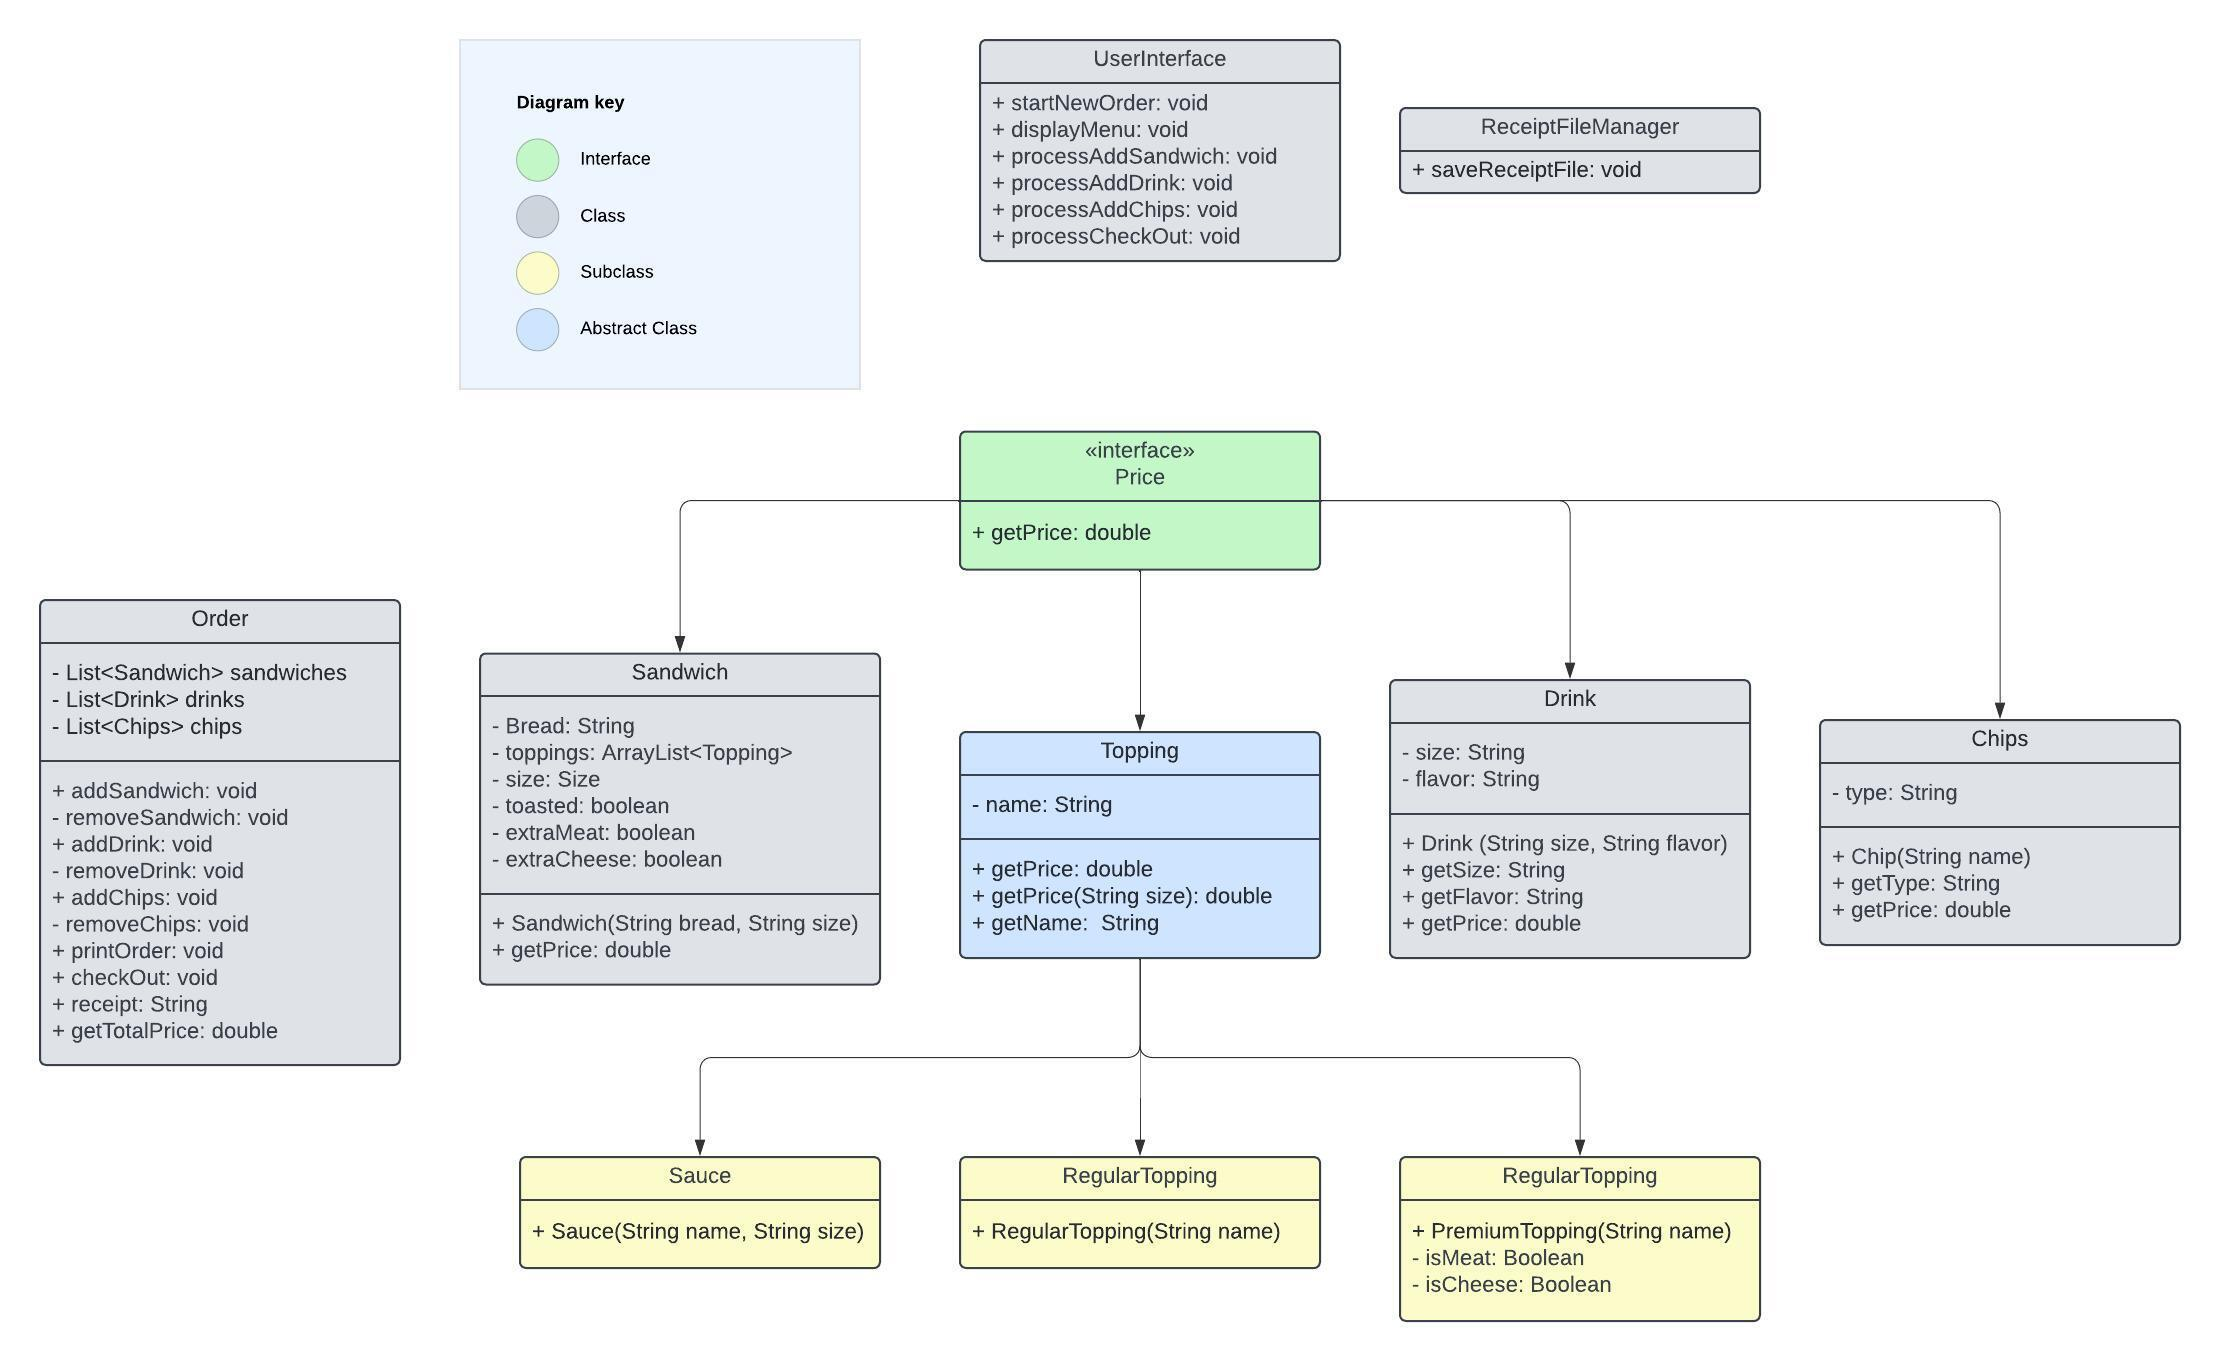
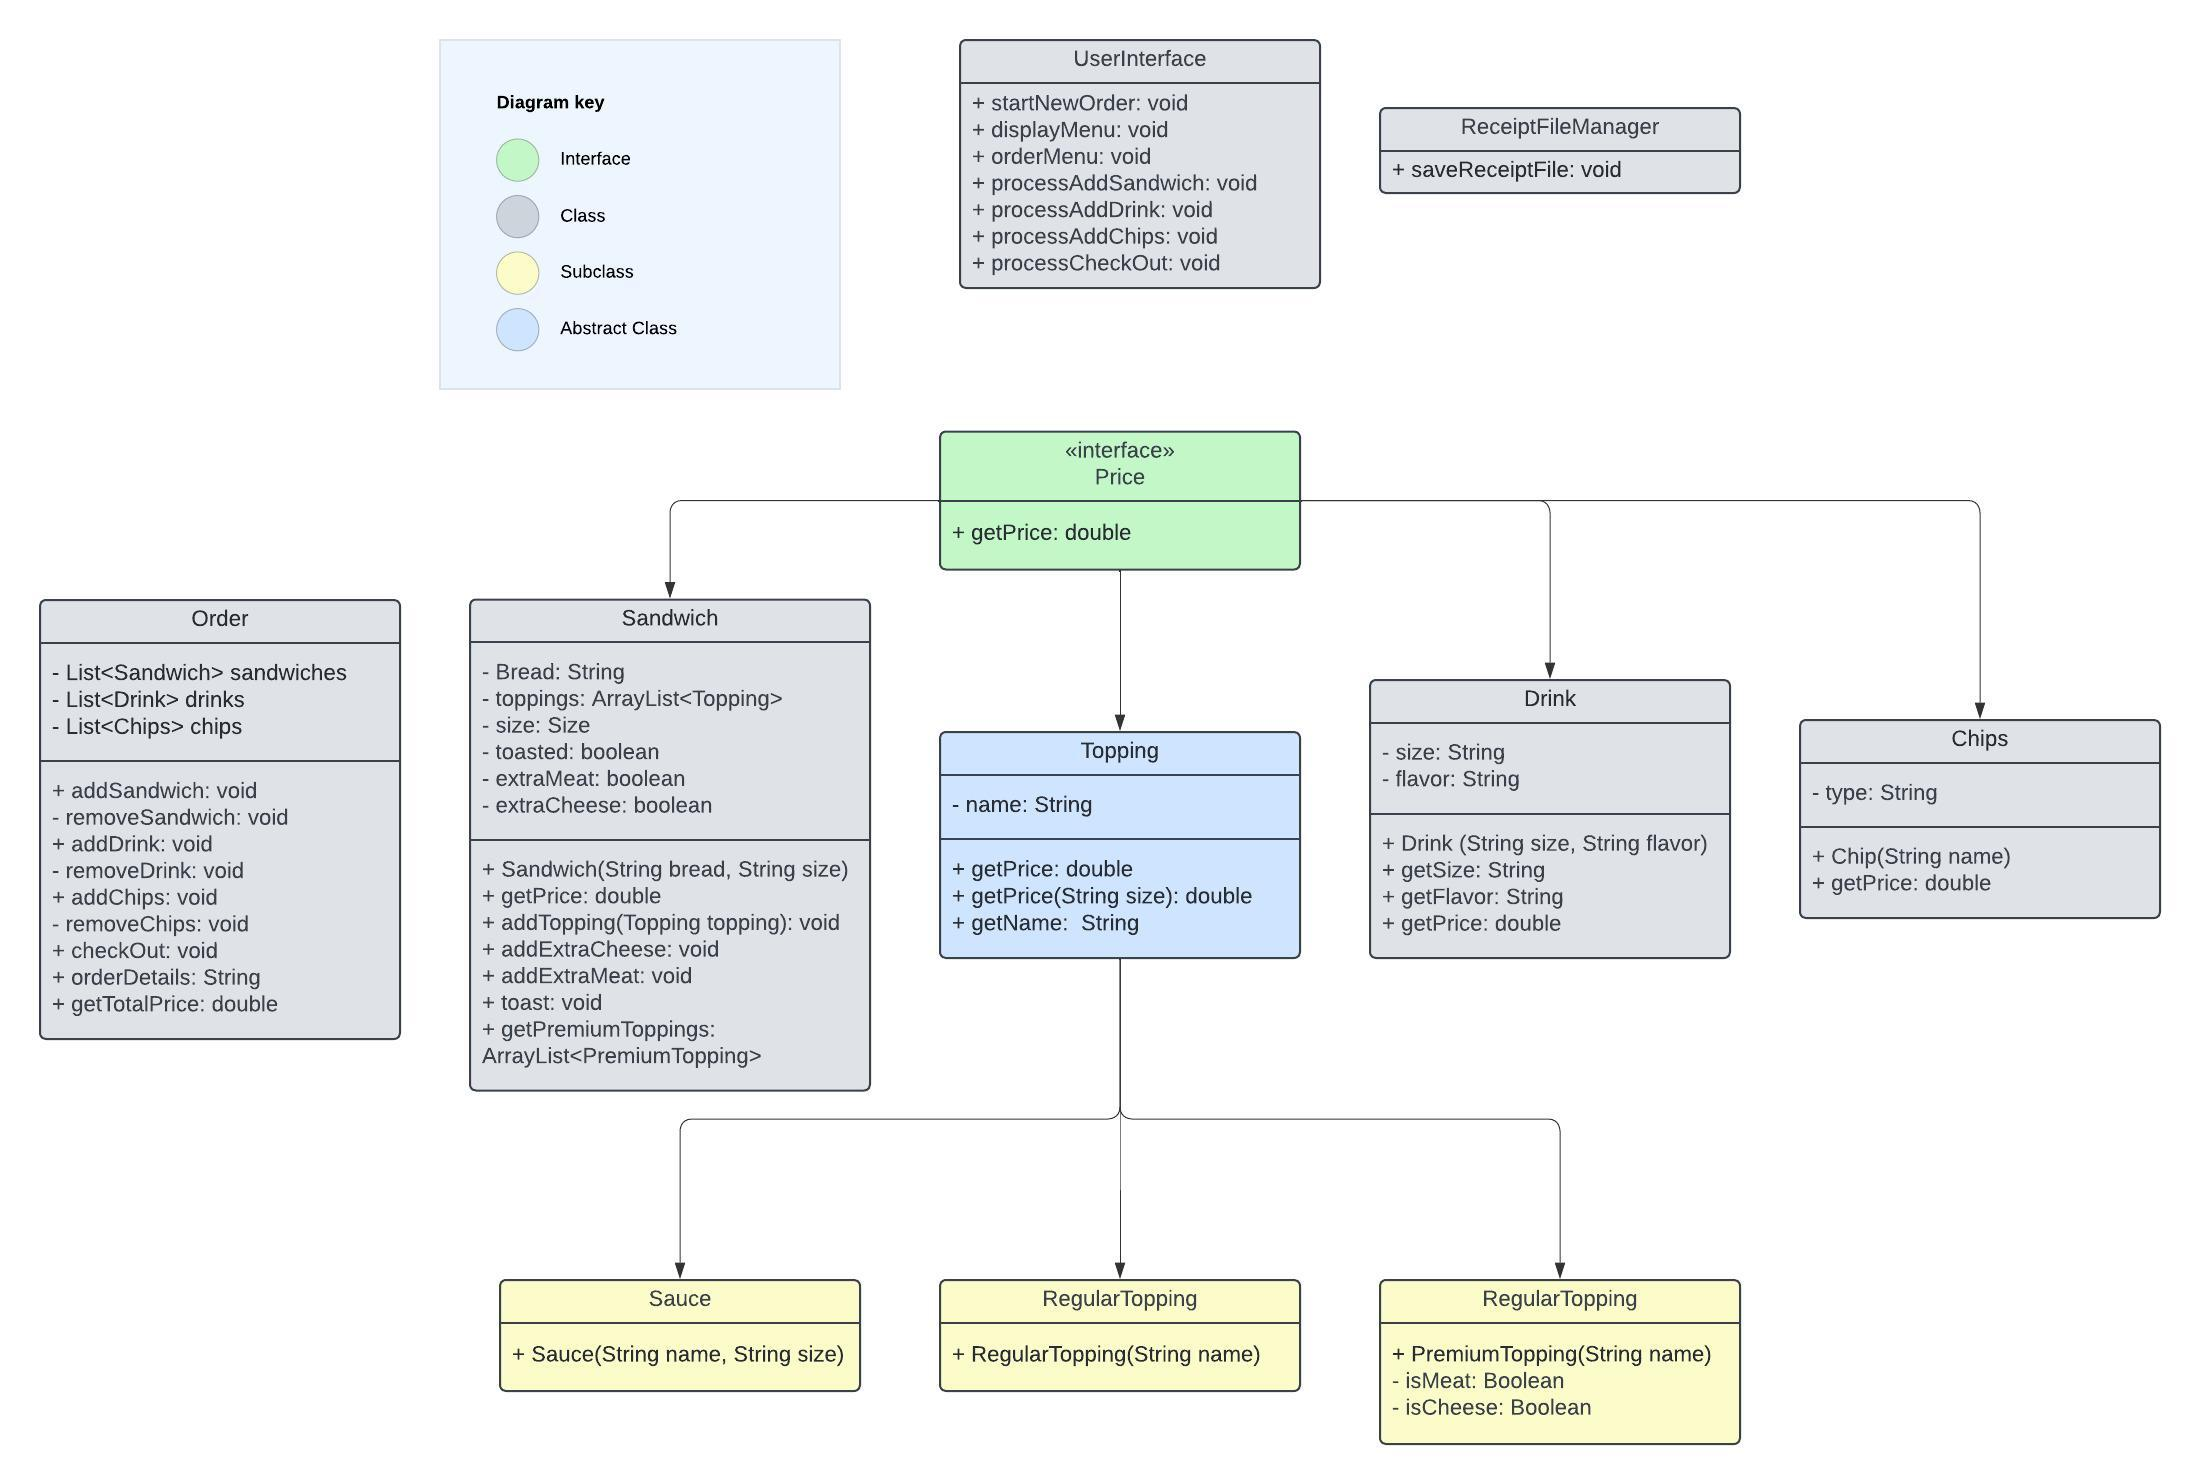
receipt displays extra meat/cheese and if toasted (#32)

diff --git a/src/main/java/com/pluralsight/deli/UserInterface.java b/src/main/java/com/pluralsight/deli/UserInterface.java
@@ -32,7 +32,7 @@ public class UserInterface {
             switch (firstInput) {
                 case "1":
                     startNewOrder();
-                    trueMenu();
+                    orderMenu();
                     break;
                 case "0":
                     acting = false;
@@ -41,7 +41,7 @@ public class UserInterface {
         }
     }
 
-    public void trueMenu() {
+    public void orderMenu() {
         boolean running = true;
         while(running) {
             Scanner scanner = new Scanner(System.in);
@@ -90,8 +90,9 @@ public class UserInterface {
             bread = input.nextLine();
 
             for (String b : breads) {
-                if (bread.equalsIgnoreCase(b)) {
+                if (bread.toLowerCase().contains(b.toLowerCase())) {
                     breadFound = true;
+                    bread = b;
                     break;
                 }
             }
@@ -126,8 +127,6 @@ public class UserInterface {
 
         //---------------------------------------------Meat-------------------------------------------------------------
         List<String> meats = new ArrayList<>(Arrays.asList("steak", "ham", "salami", "roast beef", "chicken", "bacon"));
-
-        ArrayList<Topping> toppings = new ArrayList<>();
         boolean meatFound = false;
 
         System.out.println("\nMEATS - Steak, Ham, Salami, Roast Beef, Chicken, or Bacon");
@@ -136,9 +135,9 @@ public class UserInterface {
             String meat = input.nextLine();
             ;
             for (String m : meats) {
-                if (meat.equalsIgnoreCase(m) || meat.contains(m)) {
+                if (meat.toLowerCase().contains(m)) {
                     meatFound = true;
-                    nameOfSandwichObject.addTopping(new PremiumTopping(meat));
+                    nameOfSandwichObject.addTopping(new PremiumTopping(m));
                     break;
                 }
             }
@@ -155,16 +154,16 @@ public class UserInterface {
             String cheese = input.nextLine();
             ;
             for (String c : cheeses) {
-                if (cheese.equalsIgnoreCase(c)) {
+                if (cheese.toLowerCase().contains(c)) {
                     cheeseFound = true;
-                    nameOfSandwichObject.addTopping(new PremiumTopping(cheese));
+                    nameOfSandwichObject.addTopping(new PremiumTopping(c));
                     break;
                 }
             }
         } while (!cheeseFound);
 
         // ---------------------------------------------Regular Toppings------------------------------------------------
-        List<String> regularToppings = new ArrayList<>(Arrays.asList("Lettuce", "Peppers", "Onions", "Tomatoes", "Jalepenos", "Cucumbers"));
+        List<String> regularToppings = new ArrayList<>(Arrays.asList("lettuce", "peppers", "onions", "tomatoes", "jalepenos", "cucumbers"));
         System.out.println("\nTOPPINGS - Lettuce, Peppers, Onions, Tomatoes, Jalepenos, Cucumbers");
         boolean toppingFound = false;
         boolean selectingToppings = true;
@@ -175,9 +174,9 @@ public class UserInterface {
                 String topping = input.nextLine();
 
                 for (String t : regularToppings){
-                    if(topping.equalsIgnoreCase(t)){
+                    if(topping.toLowerCase().contains(t)){
                         toppingFound = true;
-                        nameOfSandwichObject.addTopping(new RegularTopping(topping));
+                        nameOfSandwichObject.addTopping(new RegularTopping(t));
                         break;
                     }
                 } if (!toppingFound){
@@ -193,7 +192,7 @@ public class UserInterface {
             }
         }
         //---------------------------------------------Sauces-----------------------------------------------------------
-        List<String> sauces = new ArrayList<>(Arrays.asList("Mayo", "Mustard", "Ketchup", "Ranch", "Thousand Island", "Vinaigrette"));
+        List<String> sauces = new ArrayList<>(Arrays.asList("mayo", "mustard", "ketchup", "ranch", "thousand island", "vinaigrette"));
         System.out.println("\nSAUCES - Mayo, Mustard, Ketchup, Ranch, Thousand Island, Vinaigrette");
         boolean sauceFound = false;
         boolean selectingSauces = true;
@@ -204,9 +203,9 @@ public class UserInterface {
                 String sauce = input.nextLine();
 
                 for (String s : sauces){
-                    if(sauce.equalsIgnoreCase(s)){
+                    if(sauce.toLowerCase().contains(s)){
                         sauceFound = true;
-                        nameOfSandwichObject.addTopping(new RegularTopping(sauce));
+                        nameOfSandwichObject.addTopping(new RegularTopping(s));
                         break;
                     }
                 } if (!sauceFound){
@@ -222,32 +221,30 @@ public class UserInterface {
             }
         }
 
-        //---------------------------------------------Extra cheese-----------------------------------------------------
-        System.out.print("\nWould you like extra Cheese(Y for Yes and N for No)? ");
-        String userInput = input.nextLine();
-
-        if (userInput.equalsIgnoreCase("Y")) {
-            nameOfSandwichObject.isExtraCheese();
-            System.out.println("You added extra Cheese");
-        }
-
-
         //---------------------------------------------Extra meat-------------------------------------------------------
-        System.out.print("\nWould you like extra Meat (Press Y for Yes and N for No)? ");
-        userInput = input.nextLine();
+        System.out.print("\nWould you like extra Meat ('Y' for Yes and 'N' for No)? ");
+        String extraMeat = input.nextLine();
 
-        if (userInput.equalsIgnoreCase("Y")) {
-            nameOfSandwichObject.isExtraMeat();
+        if (extraMeat.equalsIgnoreCase("Y")) {
+            nameOfSandwichObject.addExtraMeat();
             System.out.println("You added extra Meat");
         }
 
+        //---------------------------------------------Extra cheese-----------------------------------------------------
+        System.out.print("\nWould you like extra Cheese('Y' for Yes and 'N' for No)? ");
+        String extraCheese = input.nextLine();
+
+        if (extraCheese.equalsIgnoreCase("Y")) {
+            nameOfSandwichObject.addExtraCheese();
+            System.out.println("You added extra Cheese");
+        }
 
         //---------------------------------------------Toasted----------------------------------------------------------
-        System.out.print("\nWould you like for it to be toasted (Press Y for Yes and N for No)? ");
-        userInput = input.nextLine();
+        System.out.print("\nWould you like for it to be toasted (Press 'Y' for Yes and 'N' for No)? ");
+        String toasted = input.nextLine();
 
-        if (userInput.equalsIgnoreCase("Y")) {
-            nameOfSandwichObject.isToasted();
+        if (toasted.equalsIgnoreCase("Y")) {
+            nameOfSandwichObject.toast();
             System.out.println("It will be toasted");
         }
 

diff --git a/src/main/java/com/pluralsight/deli/Sandwich.java b/src/main/java/com/pluralsight/deli/Sandwich.java
@@ -17,6 +17,9 @@ public class Sandwich implements Price {
         this.bread = bread;
         this.toppings = new ArrayList<Topping>();
         this.size = size;
+        extraMeat = false;
+        extraCheese = false;
+        toasted = false;
     }
 
     public String getBread() {
@@ -35,9 +38,7 @@ public class Sandwich implements Price {
         this.toppings = toppings;
     }
 
-    public boolean isToasted() {
-        return toasted;
-    }
+    public boolean isToasted() {return toasted;}
 
     public void setToasted(boolean toasted) {
         this.toasted = toasted;
@@ -69,24 +70,18 @@ public class Sandwich implements Price {
                 default -> System.out.println("invalid size.");
             }
         }
-
-        price += toppings.stream().mapToDouble(Topping::getPrice).sum();
-
         return price;
     }
 
     public boolean isExtraCheese() {
-        return true;
+        return extraCheese;
     }
 
     public void setExtraCheese(boolean extraCheese) {
         this.extraCheese = extraCheese;
     }
 
-    public boolean isExtraMeat() {
-
-        return true;
-    }
+    public boolean isExtraMeat() {return extraMeat;}
 
     public void setExtraMeat(boolean extraMeat) {
         this.extraMeat = extraMeat;
@@ -104,6 +99,15 @@ public class Sandwich implements Price {
         toppings.add(topping);
     }
 
+    public void addExtraCheese(){
+        extraCheese = true;
+    }
+
+    public void addExtraMeat(){
+        extraMeat = true;
+    }
+
+    public void toast(){toasted = true;}
     public ArrayList<PremiumTopping> getPremiumToppings() {
         return new ArrayList<>(Arrays.asList((PremiumTopping)toppings.get(0), (PremiumTopping) toppings.get(1)));
     }

diff --git a/src/main/java/com/pluralsight/deli/Order.java b/src/main/java/com/pluralsight/deli/Order.java
@@ -28,16 +28,17 @@ public class Order {
 
     public void checkOut(){
         System.out.println("\nCheckout");
-        System.out.println(receipt());
+        System.out.println(orderDetails());
     }
 
-    public String receipt() {
+    public String orderDetails() {
         StringBuilder sb = new StringBuilder();
 
         if(!sandwiches.isEmpty()){
             sb.append("Sandwiches");
             sandwiches.forEach(s -> {
-                sb.append("\n").append(s.getBread().toLowerCase()).append(" bread ").append("sandwich");
+                String toasted = s.isToasted() ? " (toasted)": "";
+                sb.append("\n").append(s.getBread().toLowerCase()).append(" Bread ").append("Sandwich").append(toasted);
                 sb.append("\ntoppings");
                 s.getToppings().forEach(t -> sb.append("\n").append(" - ").append(t.getName()));
 

diff --git a/src/main/java/com/pluralsight/deli/ReceiptFileManager.java b/src/main/java/com/pluralsight/deli/ReceiptFileManager.java
@@ -16,7 +16,7 @@ public class ReceiptFileManager {
         String fileName = formattedDateTime + ".txt";
         try(BufferedWriter writer = new BufferedWriter(new FileWriter(fileName))) {
             //get receipt details from the order object
-           String receiptDetails = order.receipt();
+           String receiptDetails = order.orderDetails();
 
             //write date, time & receipt details to file
             writer.write("Date and Time: " + formattedDateTime + "\n" );

diff --git a/README.md b/README.md
@@ -10,7 +10,7 @@ employees and customers.
 
 ----------------------------
 #### CLASS DIAGRAM
-![Soubway-UML.jpeg](IMG%2FSoubway-UML.jpeg)
+![uml diagram](IMG/soubway-uml.jpeg)
 
 ----------------------------
 ### User Stories
@@ -66,14 +66,37 @@ team members to see. In order to do that follow the steps below:
 ----------------------------
 ### Demo
 
+![demo](IMG/demo.gif)
+
+## Screens
 - Main Menu
 
-![NewOrder.PNG](IMG%2FNewOrder.PNG)
+![main menu](IMG/main-menu.PNG)
 
 
-- Start of Order
+- Order Menu
 
-![Options.PNG](IMG%2FOptions.PNG)
+![order menu](IMG/order-menu.PNG)
+
+
+- Sandwich Creation
+
+![sandwich creation](IMG/sandwich-creation.PNG)
+
+
+- Chip Selection
+
+![chip selection](IMG/chips-selection.PNG)
+
+
+- Drink Selection
+
+![drink selection](IMG/drink-selection.PNG)
+
+
+- Check Out
+
+![check out screen](IMG/checkout-screen.PNG)
 
 
 
